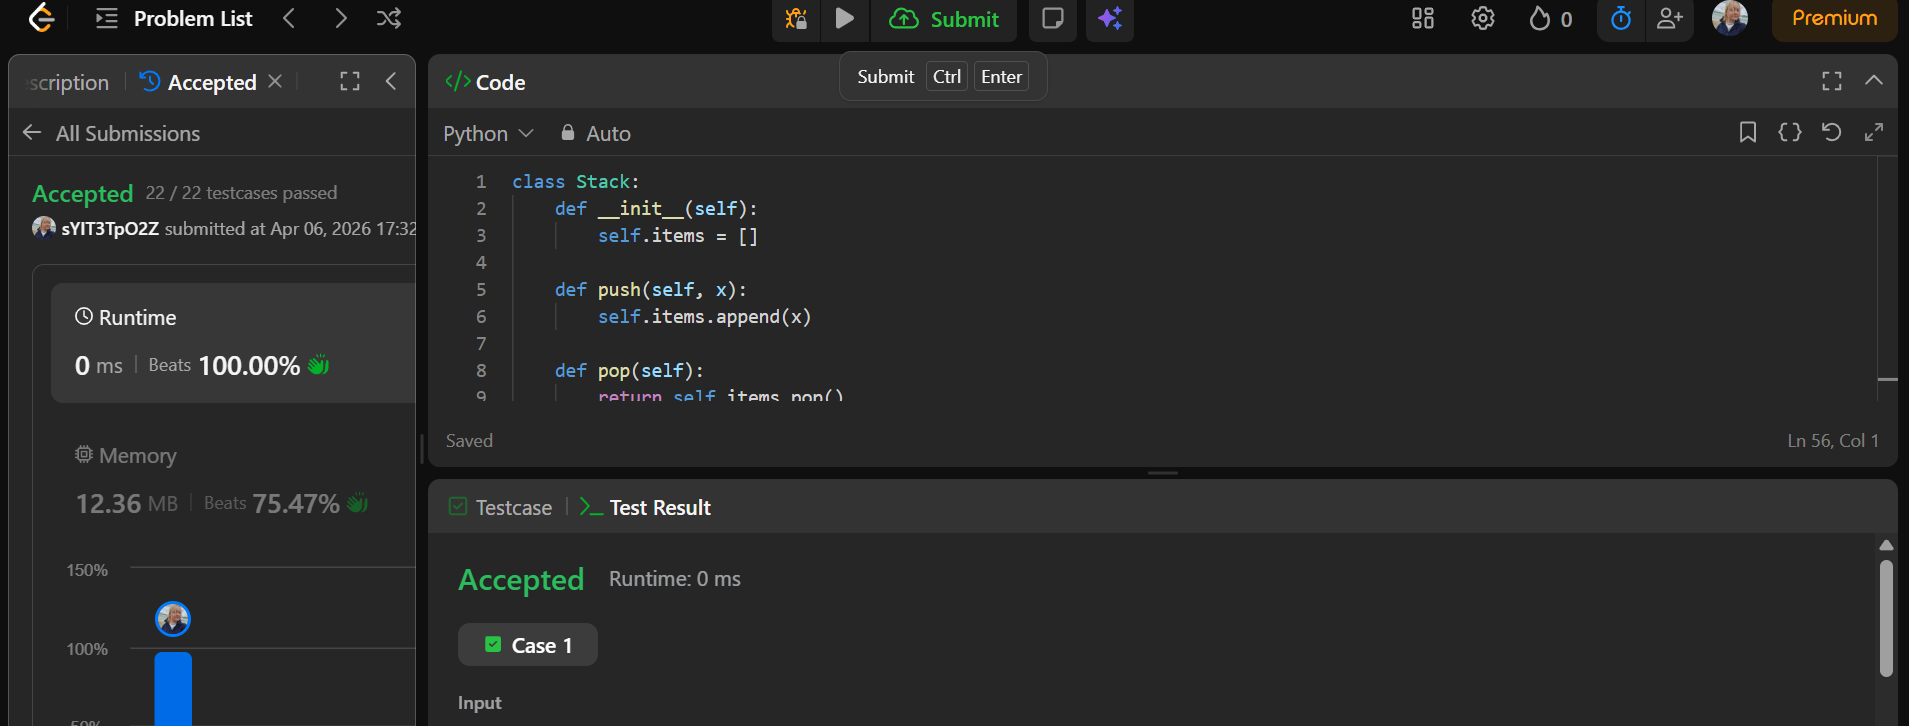
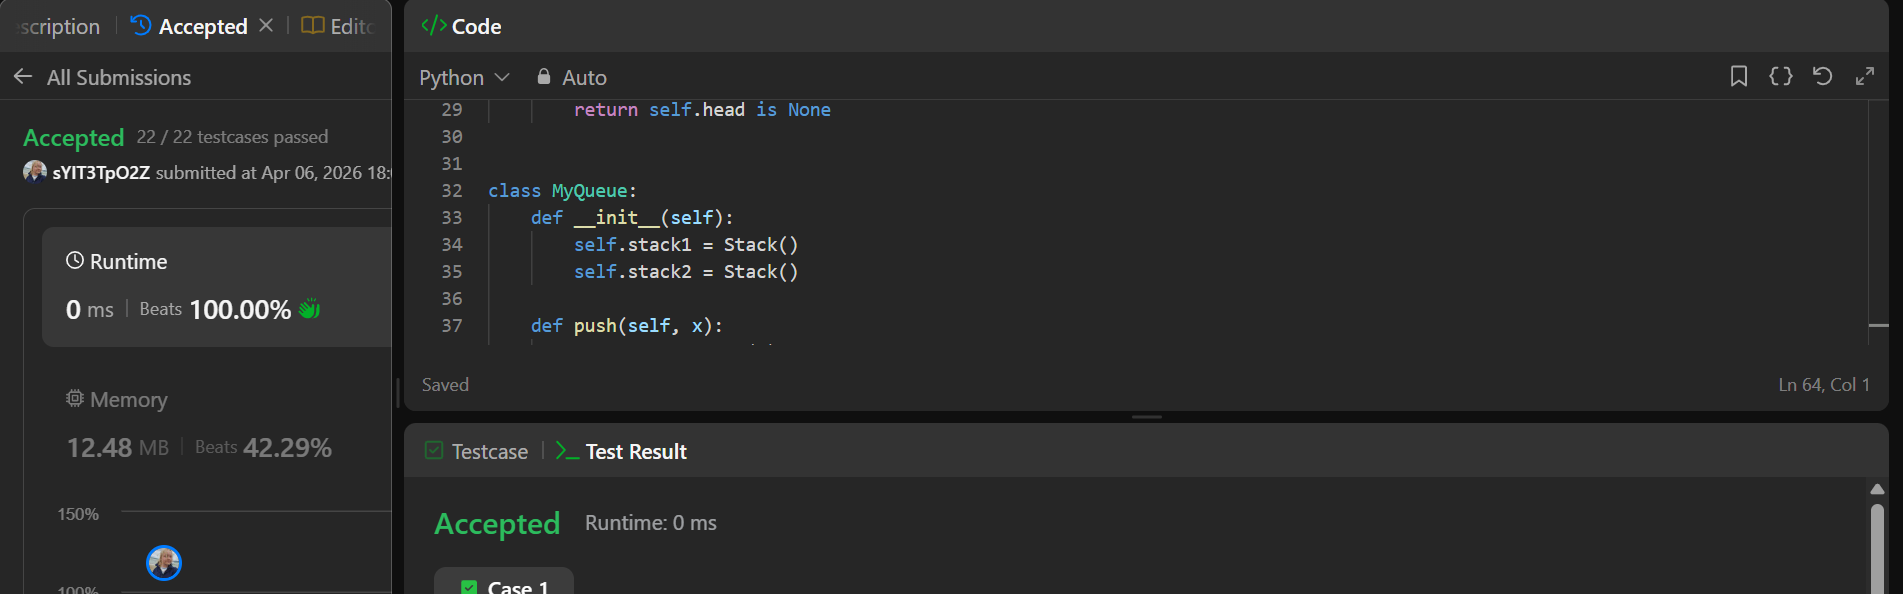
переробила Implement_Queue_using_Stacks без списків

diff --git a/Implement_Queue_using_Stacks/task.py b/Implement_Queue_using_Stacks/task.py
@@ -1,18 +1,32 @@
+class Node:
+    def __init__(self, value):
+        self.value = value
+        self.next = None
+
+
 class Stack:
     def __init__(self):
-        self.items = []
+        self.head = None
 
     def push(self, x):
-        self.items.append(x)
+        new_node = Node(x)
+        new_node.next = self.head
+        self.head = new_node
 
     def pop(self):
-        return self.items.pop()
+        if self.head is None:
+            return None
+        value = self.head.value
+        self.head = self.head.next
+        return value
 
     def peek(self):
-        return self.items[-1]
+        if self.head is None:
+            return None
+        return self.head.value
 
     def empty(self):
-        return len(self.items) == 0
+        return self.head is None
 
 
 class MyQueue:
@@ -26,6 +40,7 @@ class MyQueue:
     def pop(self):
         while not self.stack1.empty():
             self.stack2.push(self.stack1.pop())
+
         result = self.stack2.pop()
 
         while not self.stack2.empty():
@@ -36,6 +51,7 @@ class MyQueue:
     def peek(self):
         while not self.stack1.empty():
             self.stack2.push(self.stack1.pop())
+
         result = self.stack2.peek()
 
         while not self.stack2.empty():
@@ -45,11 +61,3 @@ class MyQueue:
 
     def empty(self):
         return self.stack1.empty()
-
-
-# Your MyQueue object will be instantiated and called as such:
-# obj = MyQueue()
-# obj.push(x)
-# param_2 = obj.pop()
-# param_3 = obj.peek()
-# param_4 = obj.empty()
